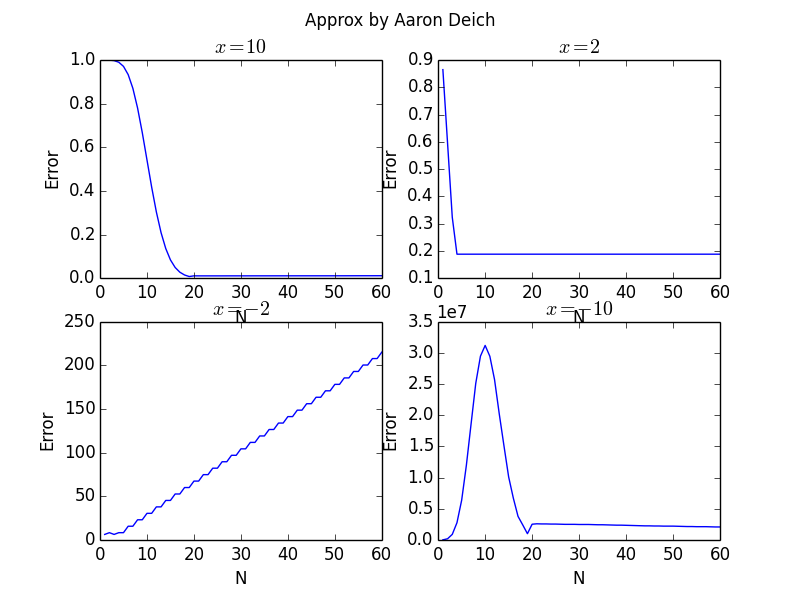
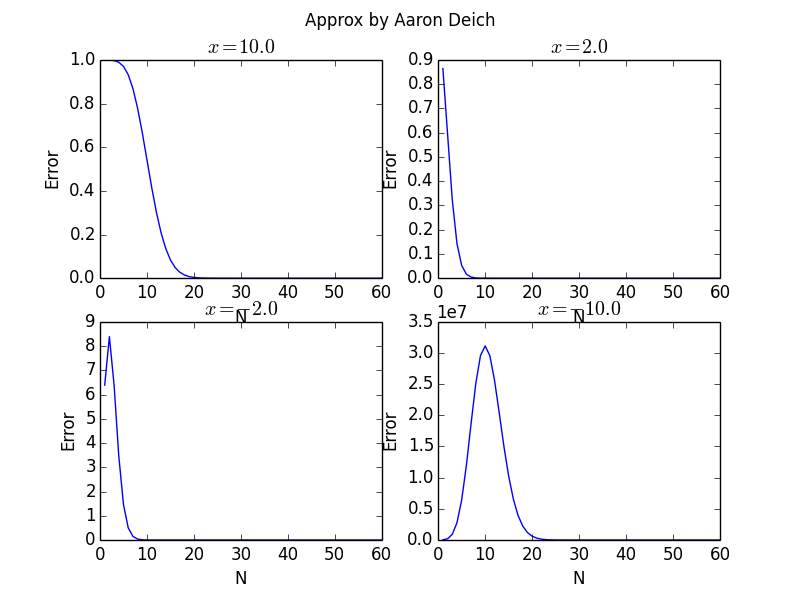
forgot to include changes of last commit.

diff --git a/HW3/HW3.py b/HW3/HW3.py
@@ -29,7 +29,7 @@ def create_graphing_data(x):
 	
 	# No vectorization here, as I couldn't get it to work.
 	# Sadly, a plain old Python for-loop.
-	independent_axis = range(1, N+1)
+	independent_axis = np.linspace(1, N, N)
 	dependent_axis = []
 	for n in independent_axis:
 		dependent_axis.append(compute_abs_frac_error(np.exp(x), approximate_exp(x, n)))
@@ -48,11 +48,12 @@ def plot_2by2_grid(four_x_values_list):
 		plt.title('$x = {}$'.format(four_x_values_list[plot_index]))
 		plt.xlabel('N'); plt.ylabel('Error')
 
+	plt.savefig('HW3.png')
 	plt.show()
 
 
 def main():
-	plot_2by2_grid([10, 2, -2, -10])
+	plot_2by2_grid([10., 2., -2., -10.])
 
 
 main()
